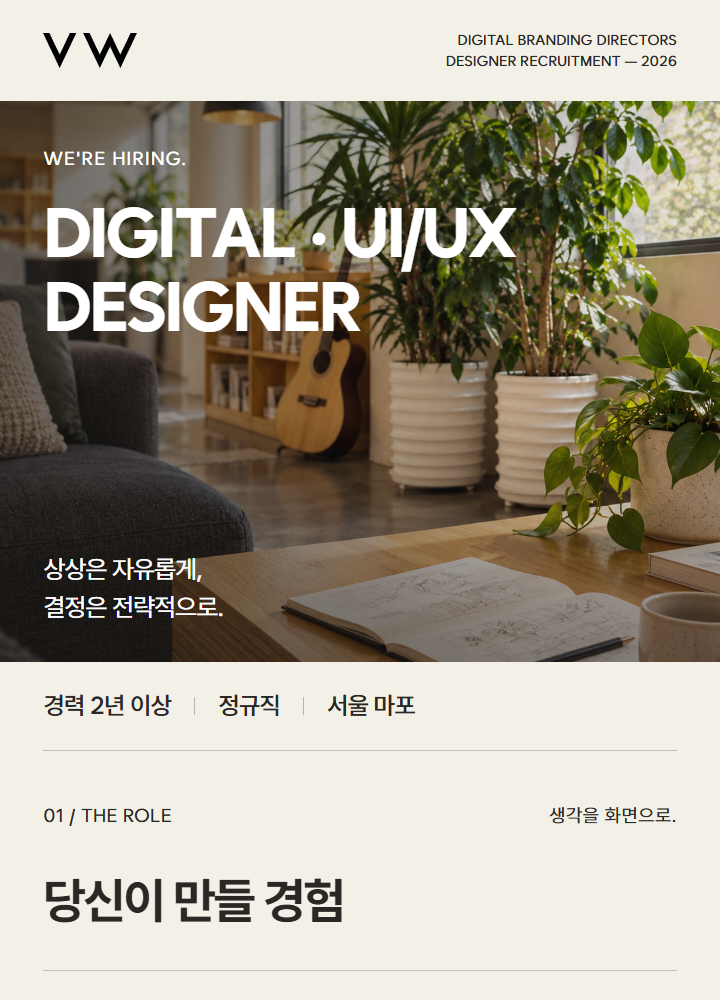
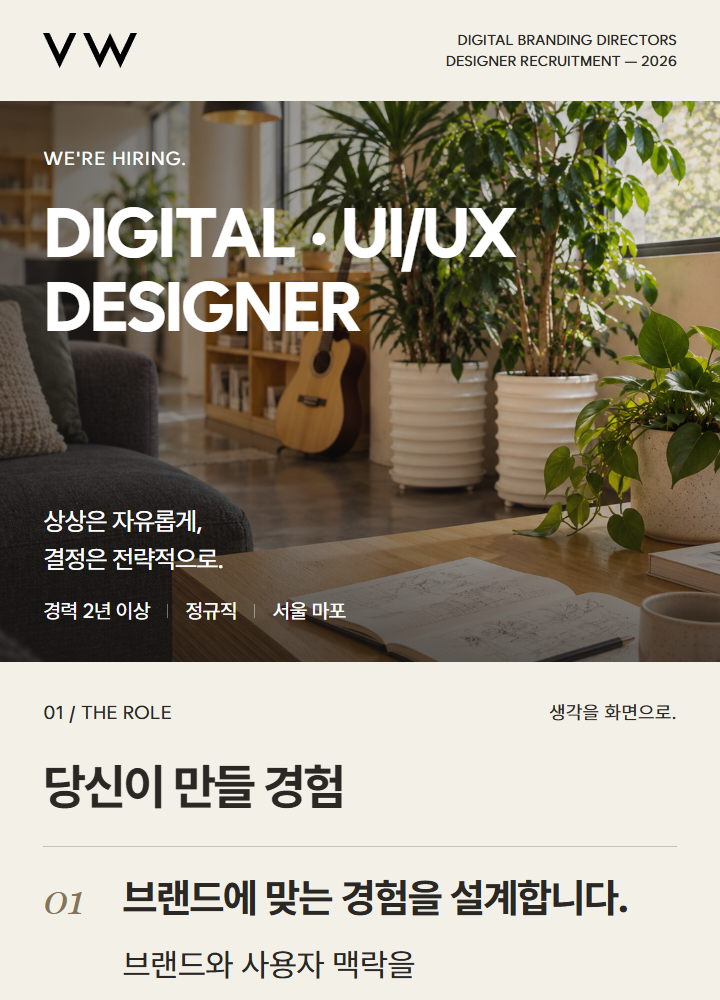
3번째 디자인 완성

diff --git a/src/pages/2026-09-26-designer/BrandFrame.jsx b/src/pages/2026-09-26-designer/BrandFrame.jsx
@@ -7,14 +7,16 @@ const duties = [
  ['일관된 디자인을 만듭니다.', '타이포그래피와 컴포넌트 등 비주얼 기준을 정리하고, 디자인 시스템과 가이드로 완성도를 높입니다.'],
  ['협업으로 결과를 완성합니다.', 'PM·개발자와 디자인 의도를 공유하고, 고객사 커뮤니케이션과 구현 결과 검수에 참여합니다.'],
 ];
+function BenefitIllustration({ type }) {
+ return <span className={`bf-benefit-illustration bf-benefit-${type}`} aria-hidden="true"><img src={asset('vw-benefits-infographic-v1.png')} alt=""/></span>;
+}
 export default function BrandFrame() {
  return <main id="content" className="recruitment brand-frame">
   <header className="bf-masthead"><img src={asset('로고.svg')} alt="VW"/><span>DIGITAL BRANDING DIRECTORS<br/>DESIGNER RECRUITMENT — 2026</span></header>
   <section className="bf-values-hero">
    <img src={asset('vw-company-lounge-v2.png')} alt="회사 사진을 바탕으로 구성한 햇살이 드는 라운지 공간"/>
-   <div className="bf-values-title"><p>WE'RE HIRING.</p><h1>DIGITAL · UI/UX<br/>DESIGNER</h1></div><p className="bf-hero-philosophy">상상은 자유롭게,<br/>결정은 전략적으로.</p>
+   <div className="bf-values-title"><p>WE'RE HIRING.</p><h1>DIGITAL · UI/UX<br/>DESIGNER</h1></div><div className="bf-hero-bottom"><p className="bf-hero-philosophy">상상은 자유롭게,<br/>결정은 전략적으로.</p><div className="bf-facts" aria-label="채용 조건"><span>경력 2년 이상</span><span>정규직</span><span>서울 마포</span></div></div>
   </section>
-  <div className="bf-facts" aria-label="채용 조건"><span>경력 2년 이상</span><span>정규직</span><span>서울 마포</span></div>
   <section className="bf-block bf-role">
    <div className="bf-section-top"><span>01 / THE ROLE</span><span>생각을 화면으로.</span></div>
    <h2>당신이 만들 경험</h2>
@@ -25,11 +27,11 @@ export default function BrandFrame() {
    <div className="bf-photo-composition"><figure className="bf-card-photo"><img src={asset('vw-gdweb-brand-card.png')} alt="램프에 걸린 VW 명함"/></figure><div className="bf-composition-word" aria-hidden="true">Good<br/><i>thinking.</i></div><figure className="bf-flower-photo"><img src={asset('vw-flowers-brand-card.jpg')} alt="꽃병 옆에 놓인 VW 명함"/></figure></div>
    <h2>좋은 감각이 모여,<br/>다음의 경험을 만듭니다.</h2><p>브랜드 전략부터 웹·모바일 경험까지.<br/>브이더블유는 브랜드를 이해하고<br/>사람을 생각하는 디자인을 합니다.</p><div className="bf-philosophy"><span>WONDER IDEA</span><span>THINK HUMAN</span></div>
   </section>
-  <section className="bf-block bf-people"><div className="bf-section-top"><span>03 / YOU & VW</span><span>지원 자격</span></div><h2>이런 당신을 기다립니다.</h2><div className="bf-qualification"><h3>함께하기 위한 경험</h3><ul><li>학력 무관<br/><span>실무 경력 2년 이상<br/><strong>포트폴리오 제출 필수</strong></span></li><li>웹·모바일 UI/UX 디자인 실무 경험</li><li>사용자 관점에서 문제를 파악하고,<br/>디자인 의도를 설명할 수 있는 분</li><li>타이포그래피·레이아웃 등 디테일과<br/>일관성을 중요하게 생각하는 분</li><li>PM·개발자와 의견을 나누며 협업할 수 있는 분</li></ul></div><div className="bf-qualification"><h3>더 반가운 경험 <small>우대사항</small></h3><ul><li>Figma 프로토타이핑·컴포넌트 활용 경험</li><li>브랜드·프로덕트 또는 에이전시 디자인 경험</li><li>모션·인터랙션으로 디자인 의도를 표현한 경험</li><li>생성형 AI 도구를 디자인 과정에 활용한 경험</li></ul></div></section>
+  <section className="bf-block bf-people"><div className="bf-section-top"><span>03 / YOU & VW</span><span>지원 자격</span></div><h2>이런 당신을 기다립니다.</h2><div className="bf-qualification"><h3>함께하기 위한 경험</h3><ul><li><mark className="text-highlight">실무 경력 2년 이상</mark></li><li><mark className="text-highlight">포트폴리오 제출 필수</mark></li><li><mark className="text-highlight">웹·모바일 UI/UX 디자인 실무 경험</mark></li><li>사용자 관점에서 문제를 파악하고,<br/>디자인 의도를 설명할 수 있는 분</li><li>타이포그래피·레이아웃 등 디테일과<br/>일관성을 중요하게 생각하는 분</li><li>PM·개발자와 의견을 나누며 협업할 수 있는 분</li></ul></div><div className="bf-qualification"><h3>더 반가운 경험 <small>우대사항</small></h3><ul><li><mark className="text-highlight">Figma</mark> 프로토타이핑·컴포넌트 활용 경험</li><li><mark className="text-highlight">Framer</mark>를 활용한 웹사이트 제작·배포 경험</li><li>브랜드·프로덕트 또는 에이전시 디자인 경험</li><li>모션·인터랙션으로 디자인 의도를 표현한 경험</li><li><mark className="text-highlight">생성형 AI 도구</mark>를 디자인 과정에 활용한 경험</li></ul></div></section>
   <section className="bf-life-spread"><img src={asset('vw-company-cafe-v2.png')} alt="회사 사진을 바탕으로 구성한 창가 카페 공간"/><div className="bf-life-caption"><span>04 / EVERYDAY</span><h2>몰입할 시간.<br/>재충전할 여유.</h2></div></section>
-  <section className="bf-block bf-terms"><div className="bf-section-top"><span>WORK & LIFE</span><span>근무 안내</span></div><dl><div><dt>고용형태</dt><dd>정규직 <small>· 수습 3개월</small></dd></div><div><dt>연봉</dt><dd>3,000~5,000만원<small>면접 후 결정</small></dd></div><div><dt>근무시간</dt><dd>09:30 — 18:30<small>주 5일 (월~금) · 탄력근무제</small></dd></div><div><dt>근무장소</dt><dd>서울 마포구 성산동<small>월드컵로32길 24, 중보빌딩 3층<br/>6호선 마포구청역 도보 4분 이내</small></dd></div><div className="bf-support"><dt>복리후생</dt><dd><strong>잘 일하고, 편히 쉴 수 있도록.</strong><div className="bf-benefits"><article><h3>휴가는 자유롭게</h3><p>개인 일정에 맞춰<br/>연차와 반차를 자유롭게 사용합니다.</p></article><article><h3>잠깐의 여유도 든든하게</h3><p>일하는 중간 즐길 수 있는<br/>음료와 간식을 제공합니다.</p></article><article><h3>중요한 날에는 함께</h3><p>기쁜 일에도, 어려운 일에도<br/>경조휴가와 경조금을 지원합니다.</p></article><article><h3>좋은 작업을 위한 장비 투자</h3><p>업무에 필요한 장비에는<br/>투자를 아끼지 않습니다.</p></article></div><span className="bf-support-details">고용보험 · 산재보험 · 건강보험<br/>퇴직연금 · 노동절 휴무</span></dd></div></dl></section>
+  <section className="bf-block bf-terms"><div className="bf-section-top"><span>WORK & LIFE</span><span>근무 안내</span></div><dl><div><dt>고용형태</dt><dd>정규직 <small>· 수습 3개월</small></dd></div><div><dt>연봉</dt><dd>3,000~5,000만원<small>면접 후 결정</small></dd></div><div><dt>근무시간</dt><dd>09:30 — 18:30<small>주 5일 (월~금) · 탄력근무제</small></dd></div><div><dt>근무장소</dt><dd>서울 마포구 성산동<small>월드컵로32길 24, 중보빌딩 3층<br/>6호선 마포구청역 도보 4분 이내</small></dd></div><div className="bf-support"><dt>복리후생</dt><dd><strong>잘 일하고, 편히 쉴 수 있도록.</strong><div className="bf-benefits"><article><BenefitIllustration type="leave"/><div className="bf-benefit-copy"><h3>휴가는 자유롭게</h3><p>개인 일정에 맞춰 연차와 반차를<br/><mark className="text-highlight">자유롭게</mark> 사용합니다.</p></div></article><article><BenefitIllustration type="break"/><div className="bf-benefit-copy"><h3>잠깐의 여유도 든든하게</h3><p>일하는 중간 즐길 수 있는<br/><mark className="text-highlight">음료와 간식</mark>을 제공합니다.</p></div></article><article><BenefitIllustration type="care"/><div className="bf-benefit-copy"><h3>중요한 날에는 함께</h3><p>기쁜 일에도, 어려운 일에도<br/><mark className="text-highlight">경조휴가와 경조금</mark>을 지원합니다.</p></div></article><article><BenefitIllustration type="tools"/><div className="bf-benefit-copy"><h3>좋은 작업을 위한 장비 투자</h3><p>업무에 필요한 장비에는<br/><mark className="text-highlight">투자를 아끼지 않습니다.</mark></p></div></article></div><span className="bf-support-details">고용보험 · 산재보험 · 건강보험<br/>퇴직연금 · 노동절 휴무</span></dd></div></dl></section>
   <section className="bf-block bf-inside"><div className="bf-section-top"><span>05 / INSIDE VW</span><span>공간의 기록</span></div><h2>우리의 공간, 우리의 취향.</h2><div className="bf-inside-grid"><figure className="bf-inside-wide"><img src={asset('vw-office-logo-wide.jpg')} alt="VW 로고 벽에서 바라본 책상과 업무 공간"/></figure><figure><img src={asset('vw-plant-wall-warm-v1.png')} alt="식물 벽과 오브제가 놓인 선반"/></figure><figure><img src={asset('vw-studio-detail-warm-v1.png')} alt="그래픽 포스터와 자전거가 놓인 사무실 코너"/></figure></div></section>
-  <section className="bf-application"><div className="bf-section-top"><span>06 / JOIN US</span><span>함께할 다음</span></div><h2>당신을<br/><em>만나고 싶습니다.</em></h2><p className="bf-apply-intro">당신의 작업과 생각을 보여주세요.</p><ol className="bf-process"><li><small>01</small>서류전형</li><li><small>02</small>면접</li><li><small>03</small>최종합격</li></ol><div className="bf-apply-row"><h3>보내주실 자료</h3><p>이력서 · 포트폴리오<br/>희망연봉은 이력서에 필수로 기재해주세요.</p></div><div className="bf-apply-row"><h3>지원 방법</h3><p>잡코리아 이력서 양식으로 즉시지원</p></div><p className="bf-note">면접 일정은 추후 개별 안내됩니다.<br/>지원서에 허위 사실이 발견될 경우<br/>채용이 취소될 수 있습니다.</p><footer className="bf-signature-photo"><img src={asset('vw-signature-dark-v2.png')} alt="브이더블유 회사명과 조명이 켜진 VW 사인"/></footer></section>
+  <section className="bf-application"><div className="bf-section-top"><span>06 / JOIN US</span><span>함께할 다음</span></div><h2>당신을<br/><em>만나고 싶습니다.</em></h2><p className="bf-apply-intro">당신의 작업과 생각을 보여주세요.</p><ol className="bf-process"><li><small>01</small>서류전형</li><li><small>02</small>면접</li><li><small>03</small>최종합격</li></ol><div className="bf-apply-row"><h3>보내주실 자료</h3><p>이력서 · 포트폴리오<br/><span className="bf-salary-note">이력서에 <strong>희망연봉 필수 기재</strong></span></p></div><div className="bf-apply-row bf-apply-action"><h3>지원 방법</h3><p>잡코리아 이력서 양식으로 즉시지원</p></div><p className="bf-note">면접 일정은 추후 개별 안내됩니다.<br/>지원서에 허위 사실이 발견될 경우<br/>채용이 취소될 수 있습니다.</p><footer className="bf-signature-photo"><img src={asset('vw-signature-dark-v2.png')} alt="브이더블유 회사명과 조명이 켜진 VW 사인"/></footer></section>
  </main>;
 }
 

diff --git a/src/pages/2026-09-26-designer/BrandFrame.css b/src/pages/2026-09-26-designer/BrandFrame.css
@@ -3,7 +3,7 @@
 .brand-frame *{box-sizing:border-box}.brand-frame :is(h1,h2,h3,p,figure,dl,dd,ol,ul){margin:0}.brand-frame img{display:block;width:100%}.brand-frame h2{font-size:6.8cqw;line-height:1.35;letter-spacing:-.3cqw;font-weight:700}.brand-frame h3{font-size:4.8cqw;line-height:1.5;font-weight:700}
 .brand-frame .bf-masthead{padding:4cqw 6cqw;display:flex;align-items:center;justify-content:space-between}.brand-frame .bf-masthead img{width:13cqw}.brand-frame .bf-masthead span{font-size:2cqw;line-height:1.5;text-align:right;letter-spacing:.05cqw}
 .brand-frame .bf-editorial-hero{position:relative;height:80cqw;background:#39352c;isolation:isolate;color:#fff}.brand-frame .bf-hero-photo{height:100%;object-fit:cover;object-position:center 60%}.brand-frame .bf-hero-shade{position:absolute;inset:0;background:linear-gradient(90deg,#171915d9,transparent 95%),linear-gradient(0deg,#17191577,transparent 60%)}.brand-frame .bf-hero-type{position:absolute;inset:5cqw 6cqw}.brand-frame .bf-hero-type p{font-size:2.4cqw;letter-spacing:.2cqw}.brand-frame .bf-hero-type>span{display:block;font-size:16cqw;letter-spacing:-.7cqw;line-height:.94;margin-top:6cqw;font-weight:500}.brand-frame .bf-hero-type i{font-family:Georgia,serif;font-weight:400}.brand-frame .bf-hero-type h1{font-size:6.3cqw;line-height:1.35;letter-spacing:-.25cqw;margin-top:6cqw}.brand-frame .bf-hero-mark{position:absolute;right:6cqw;bottom:5cqw;font-size:11cqw;line-height:1;color:#e7d4b1}
-.brand-frame .bf-facts{display:flex;align-items:center;gap:0;margin:0 6cqw;padding:3.5cqw 0;border-bottom:1px solid #c8c0b0}.brand-frame .bf-facts span{display:flex;align-items:center;font-size:3.4cqw;line-height:1.5;letter-spacing:-.08cqw;font-weight:500;white-space:nowrap}.brand-frame .bf-facts span+span::before{content:"";width:1px;height:2.6cqw;background:#bdb6a8;margin:0 3.2cqw}
+.brand-frame .bf-facts{display:flex;align-items:center;gap:0;margin-top:2.4cqw;color:#fff}.brand-frame .bf-facts span{display:flex;align-items:center;font-size:2.8cqw;line-height:1.5;letter-spacing:-.04cqw;font-weight:400;white-space:nowrap}.brand-frame .bf-facts span+span::before{content:"";width:1px;height:2cqw;background:#ffffff66;margin:0 2.4cqw}
 .brand-frame .bf-block{padding:7cqw 6cqw}.brand-frame .bf-section-top{display:flex;justify-content:space-between;gap:3cqw;font-size:2.6cqw;letter-spacing:.08cqw;margin-bottom:5cqw}.brand-frame .bf-block>h2{margin-bottom:5cqw}.brand-frame .bf-duty-list{border-bottom:1px solid #c8c0b0}.artwork-frame .recruitment.brand-frame .work-item{display:grid;grid-template-columns:8cqw 1fr;gap:3cqw;padding:4cqw 0;border-top:1px solid #c8c0b0;background:none;margin:0;border-left:0}.brand-frame .bf-number{font-family:Georgia,serif;font-style:italic;font-size:5.5cqw;color:#847557}.brand-frame .work-item h3{margin-bottom:2cqw}.brand-frame .work-item p{font-size:4.445cqw;line-height:1.65}
 .brand-frame .bf-perspective{padding:6cqw;background:#292824;color:#f3f0e8}.brand-frame .bf-photo-composition{position:relative;height:78cqw;margin:5cqw 0 7cqw}.brand-frame .bf-card-photo{position:absolute;left:0;top:0;width:53cqw;height:62cqw}.brand-frame .bf-card-photo img{height:100%;object-fit:cover}.brand-frame .bf-flower-photo{position:absolute;right:0;bottom:0;width:32cqw;height:42cqw;border:1.2cqw solid #292824}.brand-frame .bf-flower-photo img{height:100%;object-fit:cover}.brand-frame .bf-composition-word{position:absolute;right:0;top:2cqw;font-size:9cqw;line-height:1;letter-spacing:-.3cqw;text-shadow:0 1px 8px #0004}.brand-frame .bf-composition-word i{font-family:Georgia,serif;color:#d5be94}.brand-frame .bf-perspective>p{margin-top:4cqw;font-size:4.445cqw}.brand-frame .bf-philosophy{display:flex;justify-content:space-between;border-top:1px solid #6a6459;margin-top:6cqw;padding-top:3cqw;color:#d5be94;font-size:2.8cqw;letter-spacing:.15cqw}
 .brand-frame .bf-qualification{border-top:1px solid #c8c0b0;padding:4cqw 0}.brand-frame .bf-qualification h3{margin-bottom:3cqw}.brand-frame .bf-qualification small{font-size:3.2cqw;color:#756951;margin-left:2cqw;font-weight:400}.brand-frame .bf-qualification ul{padding-left:5cqw}.brand-frame .bf-qualification li{margin:1.8cqw 0;font-size:4.445cqw}
@@ -23,11 +23,11 @@
 /* Lounge recruitment cover: integrated typography, directional shade. */
 .brand-frame .bf-values-hero{height:78cqw;isolation:isolate;overflow:hidden}
 .brand-frame .bf-values-hero>img{height:100%;object-fit:cover;object-position:center 56%}
-.brand-frame .bf-values-hero::after{content:"";position:absolute;inset:0;z-index:0;background:linear-gradient(105deg,rgba(24,23,20,.68),rgba(24,23,20,.12) 78%),linear-gradient(0deg,rgba(24,23,20,.45),transparent 45%)}
+.brand-frame .bf-values-hero::after{content:"";position:absolute;inset:0;z-index:0;background:linear-gradient(105deg,rgba(24,23,20,.68),rgba(24,23,20,.12) 78%),linear-gradient(0deg,rgba(24,23,20,.62),transparent 48%)}
 .brand-frame .bf-values-title{top:6cqw;z-index:1}
 .brand-frame .bf-values-title p{font-size:2.6cqw;letter-spacing:.2cqw;margin:0 0 3cqw}
 .brand-frame .bf-values-title h1{font-size:9.6cqw;line-height:1.06;letter-spacing:-.35cqw;font-weight:600;margin:0;color:#fff}
-.brand-frame .bf-hero-philosophy{position:absolute;left:6cqw;bottom:5cqw;z-index:1;margin:0;font-size:3.5cqw;line-height:1.5;letter-spacing:-.1cqw;color:#fff}
+.brand-frame .bf-hero-bottom{position:absolute;left:6cqw;right:6cqw;bottom:5cqw;z-index:1}.brand-frame .bf-hero-philosophy{margin:0;font-size:3.5cqw;line-height:1.5;letter-spacing:-.1cqw;color:#fff}
 
 .brand-frame .bf-support dd>strong{display:block;font-size:4.8cqw;line-height:1.45;color:#292824;margin-bottom:2.5cqw}
 .brand-frame .bf-support dd>p{margin:0 0 2cqw}
@@ -42,9 +42,16 @@
 .brand-frame .bf-terms>.bf-section-top{margin-bottom:3cqw}
 
 .brand-frame .bf-benefits{display:grid;gap:2.8cqw;margin-top:3cqw}
-.brand-frame .bf-benefits article{display:grid;grid-template-columns:1fr;gap:.6cqw}
+.brand-frame .bf-benefits article{display:grid;grid-template-columns:minmax(0,1fr) 27cqw;column-gap:3cqw;row-gap:.6cqw;align-items:start;padding:1.5cqw 0}
+.brand-frame .bf-benefit-copy{grid-column:1;grid-row:1;align-self:center}
+.brand-frame .bf-benefit-copy h3{margin-bottom:1cqw}
+.brand-frame .bf-benefit-illustration{grid-column:2;grid-row:1;align-self:center;position:relative;display:block;width:27cqw;height:27cqw;overflow:hidden;mask-image:linear-gradient(to right,transparent,#000 7%,#000 93%,transparent),linear-gradient(to bottom,transparent,#000 7%,#000 93%,transparent);mask-composite:intersect}
+.brand-frame .bf-benefit-illustration img{position:absolute;width:200%;max-width:none;height:200%;left:0;top:0}
+.brand-frame .bf-benefit-break img{left:-100%}
+.brand-frame .bf-benefit-care img{top:-100%}
+.brand-frame .bf-benefit-tools img{left:-100%;top:-100%}
 .brand-frame .bf-benefits h3{font-size:4.445cqw;line-height:1.5;color:#292824;margin:0;font-weight:600}
-.brand-frame .bf-benefits p{font-size:4.445cqw;line-height:1.55;margin:0}
+.brand-frame .bf-benefits p{font-size:3.7cqw;line-height:1.65;margin:0}
 
 .brand-frame .bf-inside{background:#e7e1d4;padding-top:5cqw;padding-bottom:5cqw}
 .brand-frame .bf-inside>h2{font-size:5.6cqw;line-height:1.35;margin-bottom:3.5cqw}
@@ -64,3 +71,37 @@
 
 /* Keep the original signage intact; apply warmth only at rendering/export. */
 .brand-frame .bf-inside-wide img{filter:brightness(1.09) sepia(.22) saturate(1.06)}
+/* Marker follows each wrapped line and preserves inline text spacing. */
+.brand-frame .text-highlight{color:#292824;background:linear-gradient(transparent 32%,#eee08c 32%,#eee08c 94%,transparent 94%);-webkit-box-decoration-break:clone;box-decoration-break:clone;padding:0;font-weight:600}
+.brand-frame .bf-application .text-highlight{background:#eee08c;color:#292824}
+
+/* The background change closes the role section without a second divider. */
+.brand-frame .bf-duty-list{border-bottom:0}
+
+/* Tighten the reading rhythm while preserving body type and the cover. */
+.brand-frame .bf-block{padding-top:5cqw;padding-bottom:5cqw}
+.brand-frame .bf-section-top{margin-bottom:3.5cqw}
+.brand-frame .bf-block>h2{margin-bottom:3.5cqw}
+.artwork-frame .recruitment.brand-frame .work-item{padding:3cqw 0}
+.brand-frame .work-item h3{margin-bottom:1.2cqw}
+.brand-frame .bf-photo-composition{height:66cqw;margin:3cqw 0 5cqw}
+.brand-frame .bf-card-photo{height:55cqw}
+.brand-frame .bf-flower-photo{height:36cqw}
+.brand-frame .bf-qualification{padding:3cqw 0}
+.brand-frame .bf-qualification h3{margin-bottom:2cqw}
+.brand-frame .bf-qualification li{margin:1.3cqw 0}
+.brand-frame .bf-life-spread>img{height:54cqw}
+.brand-frame .bf-benefits{gap:1.4cqw}
+.brand-frame .bf-benefits article{grid-template-columns:minmax(0,1fr) 25cqw;padding:.7cqw 0}
+.brand-frame .bf-benefit-illustration{width:25cqw;height:25cqw}
+.brand-frame .bf-inside-grid img{height:44cqw}
+.brand-frame .bf-inside-wide img{height:42cqw}
+.brand-frame .bf-application{padding-top:5cqw}
+.brand-frame .bf-apply-intro{margin:3cqw 0 4cqw}
+.brand-frame .bf-process{padding:3cqw 0}
+.brand-frame .bf-apply-row{margin-top:4cqw}
+.brand-frame .bf-salary-note{font-size:3.7cqw;color:#c9c5bc}
+.brand-frame .bf-salary-note strong{font-weight:600}
+.brand-frame .bf-apply-action{border-top:1px solid #777064;padding-top:3cqw}
+.brand-frame .bf-apply-action p{font-weight:700;color:#eee08c}
+.brand-frame .bf-note{margin-top:4cqw}

diff --git a/src/html-code-dialog.css b/src/html-code-dialog.css
@@ -1,3 +1,3 @@
-.html-dialog{width:min(680px,calc(100% - 32px));max-height:calc(100dvh - 40px);padding:0;border:1px solid #c6c7bd;border-radius:14px;background:#fafaf7;color:#242720;box-shadow:0 24px 90px #0004;overflow:auto;font-family:'Wanted Sans',sans-serif}.html-dialog::backdrop{background:#15181288;backdrop-filter:blur(4px)}.html-dialog-header{display:flex;align-items:center;justify-content:space-between;gap:20px;padding:20px 24px;border-bottom:1px solid #deded5}.html-dialog-header p{font-size:11px;letter-spacing:1px;color:#74776b;margin:0 0 6px}.html-dialog-header h2{font-size:23px;letter-spacing:-.8px;margin:0;font-weight:500}.html-dialog button{font:inherit;cursor:pointer}.html-close{border:0;background:transparent;font-size:30px!important;width:40px;height:40px;border-radius:50%}.html-close:hover{background:#e9e9e1}.html-dialog-content{padding:20px 24px 16px}.html-dialog-content>p:first-child{font-size:13px;line-height:1.8;margin:0 0 16px;word-break:keep-all}.html-image-status{display:flex;align-items:center;gap:12px;flex-wrap:wrap;padding:12px 14px;background:#edf1e7;border-radius:7px;font-size:12px;line-height:1.7}.html-image-status>div{display:flex;align-items:center;gap:8px;flex:1;min-width:180px}.html-state-dot{width:6px;height:6px;border-radius:50%;background:#708458;flex-shrink:0}.html-image-status a{color:inherit;font-size:11px;white-space:nowrap;text-underline-offset:4px}.html-image-status.is-error{background:#faf0e5;color:#944c31}.is-error .html-state-dot{background:#bd7955}.html-retry{border:0;padding:0;background:none;text-decoration:underline;text-underline-offset:4px;font-size:11px!important}.html-url-settings{margin:12px 0 18px}.html-url-settings summary{cursor:pointer;font-size:11px;color:#68715f;width:fit-content;padding:4px 0}.html-url-settings>div{padding:13px 0 0}.html-dialog label{display:block;font-size:12px;font-weight:500;margin-bottom:8px}.html-dialog input,.html-dialog textarea{width:100%;box-sizing:border-box;border:1px solid #c9cbbf;border-radius:6px;font:inherit;font-size:13px;padding:11px;background:#fff;color:#292e2c}.html-dialog textarea{height:190px;min-height:120px;resize:vertical;font-family:Consolas,monospace;font-size:12px;line-height:1.65;background:#f1f2ed}.html-url-help{font-size:11px;color:#73786b;line-height:1.6;margin:8px 0 0}.html-url-help.invalid{color:#a43c28}.html-code-label{display:flex;justify-content:space-between;gap:10px;align-items:baseline}.html-code-label span{font-size:10px;color:#757b6c}.html-status{font-size:11px;color:#58644e;line-height:1.7;margin:10px 0 0}.html-dialog-footer{position:sticky;bottom:0;display:flex;justify-content:flex-end;gap:10px;border-top:1px solid #deded5;padding:14px 24px;background:#fafaf7}.html-dialog-footer button{border:1px solid #c6c7bd;background:transparent;border-radius:6px;padding:10px 20px;font-size:13px}.html-dialog-footer .html-copy{background:#292e2c;color:#fff;border-color:#292e2c}.html-dialog button:disabled{opacity:.4;cursor:not-allowed}.card-actions .html-code-button{border:0;background:none;padding:0;font:inherit;text-decoration:underline;text-underline-offset:5px;color:#555e48;cursor:pointer}.design-nav .html-code-button{background:#292e2c;color:white;border-radius:4px;padding:9px 12px;font-size:11px}.nav-tools{display:flex;align-items:center;gap:12px}.design-nav>.nav-tools{overflow:visible;padding:0}.html-dialog :focus-visible{outline:3px solid #73875c;outline-offset:3px}@media(max-width:700px){.design-nav>.nav-tools{order:2;width:auto;margin:0 0 0 auto}.html-dialog-header,.html-dialog-content{padding:18px}.html-dialog-header h2{font-size:21px}.html-dialog-footer{padding:13px 18px}.html-code-label{align-items:start;flex-direction:column;gap:0}.html-code-label span{margin-bottom:8px}.html-dialog textarea{font-size:11px;height:165px}.html-dialog-footer button{padding:10px 15px}}@media print{.html-dialog{display:none!important}}
+.html-dialog{width:min(680px,calc(100% - 32px));max-height:calc(100dvh - 40px);padding:0;border:1px solid #c6c7bd;border-radius:14px;background:#fafaf7;color:#242720;box-shadow:0 24px 90px #0004;overflow:auto;font-family:'Wanted Sans',sans-serif}.html-dialog::backdrop{background:#15181288;backdrop-filter:blur(4px)}.html-dialog-header{display:flex;align-items:center;justify-content:space-between;gap:20px;padding:20px 24px;border-bottom:1px solid #deded5}.html-dialog-header p{font-size:11px;letter-spacing:1px;color:#74776b;margin:0 0 6px}.html-dialog-header h2{font-size:23px;letter-spacing:-.8px;margin:0;font-weight:500}.html-dialog button{font:inherit;cursor:pointer}.html-close{border:0;background:transparent;font-size:30px!important;width:40px;height:40px;border-radius:50%}.html-close:hover{background:#e9e9e1}.html-dialog-content{padding:20px 24px 16px}.html-dialog-content>p:first-child{font-size:13px;line-height:1.8;margin:0 0 16px;word-break:keep-all}.html-image-status{display:flex;align-items:center;gap:12px;flex-wrap:wrap;padding:12px 14px;background:#edf1e7;border-radius:7px;font-size:12px;line-height:1.7}.html-image-status>div{display:flex;align-items:center;gap:8px;flex:1;min-width:180px}.html-state-dot{width:6px;height:6px;border-radius:50%;background:#708458;flex-shrink:0}.html-image-status a{color:inherit;font-size:11px;white-space:nowrap;text-underline-offset:4px}.html-image-status.is-error{background:#faf0e5;color:#944c31}.is-error .html-state-dot{background:#bd7955}.html-retry{border:0;padding:0;background:none;text-decoration:underline;text-underline-offset:4px;font-size:11px!important}.html-url-settings{margin:12px 0 18px}.html-url-settings summary{cursor:pointer;font-size:11px;color:#68715f;width:fit-content;padding:4px 0}.html-url-settings>div{padding:13px 0 0}.html-dialog label{display:block;font-size:12px;font-weight:500;margin-bottom:8px}.html-dialog input,.html-dialog textarea{width:100%;box-sizing:border-box;border:1px solid #c9cbbf;border-radius:6px;font:inherit;font-size:13px;padding:11px;background:#fff;color:#292e2c}.html-dialog textarea{height:190px;min-height:120px;resize:vertical;font-family:Consolas,monospace;font-size:12px;line-height:1.65;background:#f1f2ed}.html-url-help{font-size:11px;color:#73786b;line-height:1.6;margin:8px 0 0}.html-url-help.invalid{color:#a43c28}.html-code-label{display:flex;justify-content:space-between;gap:10px;align-items:baseline}.html-code-label span{font-size:10px;color:#757b6c}.html-status{font-size:11px;color:#58644e;line-height:1.7;margin:10px 0 0}.html-dialog-footer{position:sticky;bottom:0;display:flex;justify-content:flex-end;gap:10px;border-top:1px solid #deded5;padding:14px 24px;background:#fafaf7}.html-dialog-footer button{border:1px solid #c6c7bd;background:transparent;border-radius:6px;padding:10px 20px;font-size:13px}.html-dialog-footer .html-copy{background:#292e2c;color:#fff;border-color:#292e2c}.html-dialog button:disabled{opacity:.4;cursor:not-allowed}.card-actions .html-code-button{border:0;background:none;padding:0;font:inherit;text-decoration:underline;text-underline-offset:5px;color:#555e48;cursor:pointer}.design-nav .html-code-button{background:#292e2c;color:white;border-radius:4px;padding:9px 12px;font-size:11px}.nav-tools{display:flex;align-items:center;gap:12px}.design-nav>.nav-tools{overflow:visible;padding:0}.html-dialog :focus-visible{outline:3px solid #73875c;outline-offset:3px}@media(max-width:700px){.design-nav>.nav-tools{order:2;width:auto;margin:0 0 0 auto}.html-dialog-header,.html-dialog-content{padding:18px}.html-dialog-header h2{font-size:21px}.html-dialog-footer{padding:13px 18px}.html-code-label{align-items:start;flex-direction:column;gap:0}.html-code-label span{margin-bottom:8px}.html-dialog textarea{font-size:11px;height:165px}.html-dialog-footer button{padding:10px 15px}}
 
 .html-mode select{display:block;width:100%;margin-top:8px;padding:10px;border:1px solid #c9cbbf;border-radius:6px;background:white;font:inherit}.html-image-status{margin-top:10px}.html-url-settings label:not(:first-child){margin-top:16px}

diff --git a/src/main.jsx b/src/main.jsx
@@ -40,7 +40,7 @@ function App() {
   const role = recruitment?.title || '';
   useEffect(() => { document.title = !route ? 'VW — 등록일별 채용공고' : design ? `VW — ${design.name} | ${role} 채용` : recruitment ? `VW — ${role} 채용 컬렉션` : 'VW — 페이지를 찾을 수 없습니다'; }, [design, role, route, recruitment]);
   const Page = design && artworkModules['./pages/' + design.component + '.jsx'].default;
-  return <><a className="skip-link" href="#content" onClick={event => {event.preventDefault(); const content = document.getElementById('content'); if (content) { content.tabIndex = -1; content.focus({ preventScroll: true }); content.scrollIntoView(); }}}>본문으로 건너뛰기</a>{design ? <><nav className="design-nav" aria-label="시안 전환"><a className="back-link" href={home}>← <span>전체 시안</span></a><div>{collection.map(item => <a key={item.id} href={`#/${item.route}`} aria-current={design.id === item.id ? 'page' : undefined}>{item.letter ? `${item.letter}. ` : ''}{item.name}</a>)}</div><div className="nav-tools"><button className="html-code-button" onClick={() => setCodeDesign(design)}>채용공고 HTML 코드</button><a href={import.meta.env.BASE_URL + design.imagePath} download>공통 이미지 다운로드 ↓</a><button onClick={() => window.print()} aria-label="현재 채용공고 인쇄">인쇄 ↗</button></div></nav><div className="artwork-frame"><Page recruitment={recruitment} design={design}/></div><div className="page-end"><a href={home}>← 전체 시안으로 돌아가기</a><button onClick={() => window.scrollTo({ top: 0, behavior: 'smooth' })}>맨 위로 ↑</button></div></> : !route ? <RecruitmentList/> : !recruitment ? <main className="not-found" id="content" tabIndex={-1}><h1>페이지를 찾을 수 없습니다.</h1><a href="#/">등록일별 공고 목록으로 돌아가기 →</a></main> : <Gallery onShowCode={setCodeDesign} recruitment={recruitment}/>}{codeDesign && <HtmlCodeDialog key={codeDesign.storageKey} design={codeDesign} onClose={() => setCodeDesign(null)}/>}</>;
+  return <><a className="skip-link" href="#content" onClick={event => {event.preventDefault(); const content = document.getElementById('content'); if (content) { content.tabIndex = -1; content.focus({ preventScroll: true }); content.scrollIntoView(); }}}>본문으로 건너뛰기</a>{design ? <><nav className="design-nav" aria-label="시안 전환"><a className="back-link" href={home}>← <span>전체 시안</span></a><div>{collection.map(item => <a key={item.id} href={`#/${item.route}`} aria-current={design.id === item.id ? 'page' : undefined}>{item.letter ? `${item.letter}. ` : ''}{item.name}</a>)}</div><div className="nav-tools"><button className="html-code-button" onClick={() => setCodeDesign(design)}>채용공고 HTML 코드</button><a href={import.meta.env.BASE_URL + design.imagePath} download>공통 이미지 다운로드 ↓</a></div></nav><div className="artwork-frame"><Page recruitment={recruitment} design={design}/></div><div className="page-end"><a href={home}>← 전체 시안으로 돌아가기</a><button onClick={() => window.scrollTo({ top: 0, behavior: 'smooth' })}>맨 위로 ↑</button></div></> : !route ? <RecruitmentList/> : !recruitment ? <main className="not-found" id="content" tabIndex={-1}><h1>페이지를 찾을 수 없습니다.</h1><a href="#/">등록일별 공고 목록으로 돌아가기 →</a></main> : <Gallery onShowCode={setCodeDesign} recruitment={recruitment}/>}{codeDesign && <HtmlCodeDialog key={codeDesign.storageKey} design={codeDesign} onClose={() => setCodeDesign(null)}/>}</>;
 }
 createRoot(document.getElementById('root')).render(<React.StrictMode><App/></React.StrictMode>);
 

diff --git a/src/style.css b/src/style.css
@@ -6,4 +6,4 @@ html{scrollbar-gutter:stable}
 @media(max-width:1000px){.gallery,.recruitment-list{padding:28px 32px}.design-grid{gap:20px}.design-card h2{font-size:20px}.gallery-intro{gap:24px}.intro-aside{padding-right:0}.card-actions{flex-wrap:wrap}.design-nav{gap:8px;padding:10px 16px}.design-nav>div a{padding:7px 8px;font-size:11px}}
 @media(max-width:700px){.gallery,.recruitment-list{padding:24px}.gallery-intro{display:block;padding:38px 0}.gallery h1{font-size:48px;letter-spacing:-2px}.intro-aside{margin-top:30px}.design-grid{grid-template-columns:1fr;gap:40px}.preview-image{aspect-ratio:1}.design-card h2{font-size:25px}.card-description{min-height:0}.card-actions{margin-top:20px}.collection-heading span:last-child{font-size:8px;letter-spacing:0}.archive{flex-wrap:wrap;gap:20px;margin-top:36px}.archive div{width:100%}.design-nav{flex-wrap:wrap;gap:0}.design-nav>div{order:3;width:100%;margin-top:8px}.design-nav>button{margin-left:auto}.recruitment.poster .hero h1{font-size:clamp(58px,12.7vw,76px)}.recruitment.poster .hero h1 b{font-size:clamp(65px,14vw,85px)}.recruitment .footer{flex-wrap:wrap}.recruitment .hero-top{gap:10px}.recruitment .badge{flex-shrink:0}.recruitment .section-heading{gap:12px}.recruitment .section-heading .eyebrow{max-width:90px}}
 @media(prefers-reduced-motion:reduce){*{scroll-behavior:auto!important;transition:none!important}}
-@media print{body{background:white}.design-nav,.page-end,.skip-link{display:none}.recruitment{max-width:100%!important;print-color-adjust:exact;-webkit-print-color-adjust:exact}.recruitment section{break-inside:avoid}}
+
